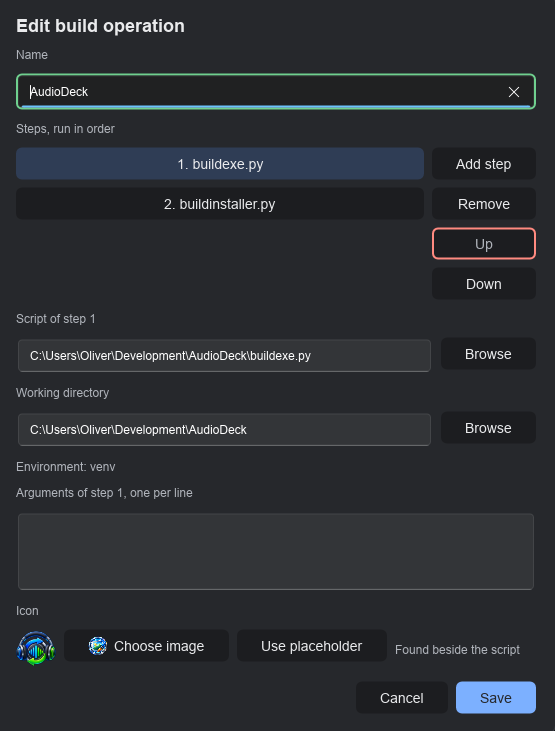
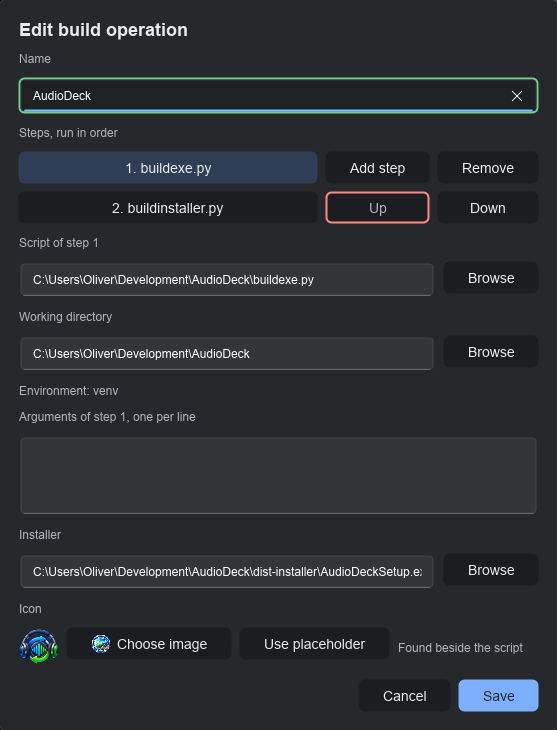
Minor version bump and docs pass
Documents Launch installer and the tray fix across the README, architecture, testing and development guides and the project site, with new window and Edit screenshots. Corrects stale test references in the SRS and re-measured figures in TESTING.md.

diff --git a/docs/index.html b/docs/index.html
@@ -47,7 +47,7 @@
     <div class="wrap hero">
         <div>
             <p class="eyebrow">
-                <span class="pill">v<!--VERSION-->1.0.1<!--/VERSION--></span>
+                <span class="pill">v<!--VERSION-->1.1.0<!--/VERSION--></span>
                 <span class="pill">Windows</span>
                 <span class="pill">Free and open source</span>
             </p>
@@ -62,7 +62,7 @@
             </div>
         </div>
         <figure class="shot">
-            <img src="screenshots/screenshot.png" alt="The BuildPilot window: a list of build operations, each with its status and controls, above the output of the selected run.">
+            <img src="screenshots/screenshot.png" alt="The BuildPilot window: a list of build operations, each with its status and controls. Launch installer is ready on every row with a setup program and greyed out with a red ring on the two without one.">
         </figure>
     </div>
 
@@ -93,6 +93,11 @@
                         outcome closes it in green, red or grey.</li>
                     <li><strong>Stops the whole tree.</strong> Stop ends the script and every
                         process it started, through a Windows job object.</li>
+                    <li><strong>Launches the installer it built.</strong> Beside Stop, Launch
+                        installer starts the project's setup program: the one set in Edit, else
+                        the folder's name plus <code>Setup.exe</code> in
+                        <code>dist-installer</code> or <code>dist</code>. It waits while the
+                        build runs and after one you stopped.</li>
                 </ul>
             </div>
             <div class="card">
@@ -118,14 +123,14 @@
 
     <section class="wrap" id="screens">
         <p class="kicker">A closer look</p>
-        <h2>Steps, environments and hosts, in two dialogs.</h2>
+        <h2>Steps, environments, installers and hosts, in two dialogs.</h2>
         <div class="gallery">
             <figure class="shot">
-                <img src="screenshots/edit.png" width="555" height="731" loading="lazy"
-                    alt="The Edit build operation dialog for AudioDeck: two steps, buildexe.py then buildinstaller.py, the working directory, the environment venv and the project's icon.">
+                <img src="screenshots/edit.png" width="557" height="730" loading="lazy"
+                    alt="The Edit build operation dialog for AudioDeck: two steps, buildexe.py then buildinstaller.py, the working directory, the environment venv, the installer found in dist-installer and the project's icon.">
                 <figcaption><strong>Edit.</strong> A Python project's two steps, run in order
                     inside its own <code>venv</code>. Steps are added, removed and reordered
-                    here; the icon was found beside the script.</figcaption>
+                    here; the installer and the icon were found in the project.</figcaption>
             </figure>
             <figure class="shot">
                 <img src="screenshots/settings.png" width="555" height="560" loading="lazy"
@@ -181,7 +186,7 @@
     <section class="wrap" id="download">
         <p class="kicker">Download</p>
         <h2>Install it once; add a project; press Run.</h2>
-        <span class="dl-version" id="dl-version">Version <!--VERSION-->1.0.1<!--/VERSION--></span>
+        <span class="dl-version" id="dl-version">Version <!--VERSION-->1.1.0<!--/VERSION--></span>
         <!--
             The button points at GitHub's releases/latest/download redirect, which always
             serves the newest release's file. The name carries no version, so the link

diff --git a/TESTING.md b/TESTING.md
@@ -3,7 +3,7 @@
 What is tested, what is not and why the line falls where it does.
 
 This document exists because a coverage figure on its own is a number without a claim behind it.
-Every figure here was measured on 2026-09-27, when it was written.
+Every figure here was measured on 2026-09-28, when it was last revised.
 
 ## The standard
 
@@ -40,7 +40,7 @@ Read the exit code rather than the last line of output: `0` means every step pas
 | `src/domain`, `src/application` and `src/setup` | 100% of lines and of regions | The correctness core and the setup program's policy: no files, no processes, no clock, no window, so every line and every branch is reachable from a test. |
 | `src/infrastructure`, `src/ui`, `src/main.rs`, `src/bin` | measured, not floored | They need real processes, files, Explorer, the registry or a window; a number over them would mean little. Their behaviour is covered by the suites below and the checks by hand. |
 
-Every line and every region in the floor is covered: 3,060 regions over 2,124 lines. A region is a branch as
+Every line and every region in the floor is covered: 3,255 regions over 2,232 lines. A region is a branch as
 well as a line, so an untaken `?` fails the gate even when its line ran. Where a branch could
 not be taken in production it was deleted rather than tested (an operation looked up twice, a
 refusal repeated after it had already been made). The region floor was proved by planting a
@@ -48,15 +48,15 @@ one-line `if` whose branch never runs: lines stayed at 100% and the gate failed.
 
 ## What the suites prove
 
-339 tests, counted from the source.
+356 tests, counted with `cargo test -- --list`.
 
 | Suite | Tests | What it proves |
 |---|---|---|
-| `tests/domain` | 135 | The rules: validation, steps, folders compared as Windows compares them, deck order and slotting in by name, the run state machine, launch plans per kind of script, the host table, environment discovery with the deactivate and activate variables, the scan patterns and proposals, line assembly and decoding, the output buffer's caps, follow state, selection, preferences, elapsed-time wording, reading the credits and naming their licences, the self-reading cycle tick by tick. |
-| `tests/application` | 91 | Every use case through `App` against hand-written fake ports: adding, editing, removing, reordering (including during a run), running steps in order, one build per folder, running the ticked rows, stopping, environments, hosts, folder scans, stale events, notices, refusals and what is logged; the update check's decisions and wording, the saved skip. |
+| `tests/domain` | 142 | The rules: validation, steps, folders compared as Windows compares them, deck order and slotting in by name, the run state machine, launch plans per kind of script, where a project's installer is found and when it may be launched, the host table, environment discovery with the deactivate and activate variables, the scan patterns and proposals, line assembly and decoding, the output buffer's caps, follow state, selection, preferences, elapsed-time wording, reading the credits and naming their licences, the self-reading cycle tick by tick. |
+| `tests/application` | 100 | Every use case through `App` against hand-written fake ports: adding, editing, removing, reordering (including during a run), running steps in order, one build per folder, running the ticked rows, stopping, launching an installer (found, set, missing, held back by a run or a stop), environments, hosts, folder scans, stale events, notices, refusals and what is logged; the update check's decisions and wording, the saved skip. |
 | `tests/infrastructure` | 58 | The real machine: the settings file in a temporary folder (including unreadable and newer files), icons, PowerShell detection, real processes started and stopped, the single-instance event, the log's rotation, a reader thread that panics, the known folders, finding and ending a process by name and clearing setup's stale copy; the donation address; the generated credits against the shipped graph, with a readable name for every licence; reading GitHub's release answer as foreign input. |
 | `tests/keyboard` | 14 | The keyboard ring, driven headless by real key events through Slint's own focus handling: neutral start, Tab and Shift+Tab with wrap, Left and Right, the rows stop, dialogs opening on their first control, owning the ring, closing on Escape and handing focus back, the output stop only while it overflows, the Help menu walked with Up and Down, a folder already on the deck off the ring. |
-| `tests/ui.rs` | 11 | What rows and the tray say, without a window. |
+| `tests/ui.rs` | 12 | What rows and the tray say, without a window. |
 | `tests/structural.rs` | 8 | The invariants in [ARCHITECTURE.md](ARCHITECTURE.md), by reading the source. |
 | `tests/guide.rs` | 1 | Every toolbar and row control has a Guide entry, one per state where its label changes. |
 | `tests/geometry` | 9 | Where Slint laid things out, headless: every toolbar tooltip inside the window, row tooltips not clipped by the list, a button's icon level with its words and centred with them, every credit's licence inside About's pane with the real list loaded, About's header above the scrolling credits, Licence opening at the top of its text, the scroll bars and the counts of rows out of sight, the selected row kept in sight when the tray opens. |
@@ -100,12 +100,13 @@ These need a real desktop and a real person; the SRS marks them Manual.
 | Check | How |
 |---|---|
 | CFG-007 first run | Start with an empty data folder: the empty state shows with its Add button. |
-| ADD-001 add by browsing | Add opens the file picker, filtered to `.ps1`, `.bat`, `.cmd` and `.exe`. |
+| ADD-001 add by browsing | Add opens the file picker, filtered to the types BuildPilot runs: `.ps1`, `.bat`, `.cmd`, `.exe`, `.com`, `.py` and any in Settings' host table. |
 | ICON-006 no distortion | Every icon and asset keeps its proportions at every size. |
 | REM-001 confirm before remove | Remove asks first, naming the operation and saying the script is not touched; Cancel is focused. |
 | ROW-002 stable layout | Every control keeps its place in every state. |
 | LCH-004 no console window | Running a `.ps1`, `.bat` and `.exe` opens no console. |
-| OUT-006 auto-follow | The tray follows new output until scrolled up; Jump to latest resumes it. |
+| OUT-006 auto-follow | The tray follows new output until scrolled up; Jump to latest resumes it. When the run ends, its closing line is in view. Checked on 2026-09-28 with a burst of 120 lines and with 80 lines 50 ms apart: the headless backend never lays out the list, so only the real window can show this. |
+| PKG-003, PKG-004 Launch installer | Right of Stop: a red ring on a row with no installer, while it runs and after a stopped run; its tooltip says which. Launching it starts the setup program, with the Windows prompt where the installer asks for administrator rights. |
 | A11Y-001 names | Narrator reads every control's name. |
 | A11Y-002 focus visible | Green ring on hover or focus, red ring on a disabled control, none at rest, never round a pane. |
 | A11Y-003 keyboard reach | Tab, Shift+Tab, Left and Right reach every control; Space and Enter activate. |

diff --git a/ARCHITECTURE.md b/ARCHITECTURE.md
@@ -37,7 +37,8 @@ violation and watching the test fail.
 - **Domain** (`src/domain`). BuildPilot's nouns and rules: an operation, its ordered steps and
   their validation, folders compared as Windows compares them, the flight deck with its order
   and where a new row slots in by name, the run state machine, the launch plan for each kind of
-  script, the operator's host table, finding a Python environment and the variables that
+  script, where a project's installer is found and when it may be launched, the operator's host
+  table, finding a Python environment and the variables that
   deactivate and activate one, the folder-scan patterns and what a scan proposes, cutting output
   bytes into lines and decoding them, the output buffer and its caps, the tray's follow state,
   selection and preferences, release versions, the open source credits and the self-reading cycle
@@ -94,6 +95,22 @@ Terminal escape sequences are removed rather than interpreted (OUT-008). A run k
 100,000 lines and splits a longer line into pieces of 16,384 characters (OUT-004). The tray
 reads the buffer directly rather than a copy. Every line is drawn in the plain text colour
 whichever stream it came on; the run's outcome is one closing line in its own colour (OUT-007).
+
+## Launching an installer
+
+Launch installer (PKG-001 to PKG-005) starts a project's setup program; BuildPilot never waits
+on it, reads its output or stops it.
+
+- **The rule is pure.** `domain/installer.rs` decides the default (the working directory's name
+  plus `Setup.exe` in `dist-installer`, then `dist`, compared by letters and digits) from a
+  listing it is handed. It also decides whether a run state allows a launch: not while running
+  or stopping, not after a stopped run.
+- **The looking is cached.** `App` records each operation's installer through `PathProbe` at
+  start, on add, edit and select and when a run ends; `application/installer_actions.rs` holds
+  the use case. The rows redraw four times a second and a look reads two folders, so the rows read
+  the record, never the disk. Launch looks again before it starts anything.
+- **Starting it is the shell's job.** `Shell::open` hands the file to Windows as Explorer would,
+  so an installer that needs administrator rights gets the usual prompt.
 
 ## Help, the credits and the update check
 
@@ -206,6 +223,8 @@ folder; only setup writes the program folder, the shortcuts and the Apps list en
 | One named event for the single instance | The same object answers "is one running?" and "come forward". | A mutex plus a second signal. |
 | The instance keyed on the data folder | The default folder is per user, which is DATA-001; a test copy on its own folder runs alongside. | One instance per user whatever the folder. |
 | Notice wording in the application layer | The window and the log say the same words. | Wording in the UI, which the log cannot reach. |
+| An installer is stored only once saved from Edit | The dialog shows the default found and Save keeps what its field holds; until then an operation follows the project's own convention. The config file stays schema 2, so an earlier release still reads it (DATA-002). | Writing the default into every operation at load, which rewrites every entry unasked. |
+| The tray pins itself to the end while following | The list measures new rows only when it next lays out, so a scroll asked for as they arrive stopped short and hid the run's closing line (OUT-003). | Scrolling once from Rust after each drain. |
 
 See also [TESTING.md](TESTING.md) for how each layer is tested and [DEVELOPMENT.md](DEVELOPMENT.md)
 for building it.

diff --git a/README.md b/README.md
@@ -55,6 +55,11 @@ Every script stays runnable without it.
   in green, red or muted grey.
 - **Stops the whole tree.** Stop ends the script and everything it started, through a Windows job
   object. A tree still alive five seconds after Stop is reported by process id.
+- **Launches the installer a build made.** Launch installer, beside Stop, starts the project's
+  setup program as Explorer would. It is the one set in Edit; with none set, the working
+  directory's name followed by `Setup.exe` in `dist-installer`, then in `dist`, matched on
+  letters and digits whatever the case. It is greyed out when there is none, while the row runs
+  and after a run you stopped, until a later run ends by itself.
 - **Opens and reveals scripts.** Open a script with its associated application or show it in
   Explorer, from its row.
 - **Uses PowerShell sensibly.** A `.ps1` runs under `pwsh` when it is on PATH and Windows

diff --git a/DEVELOPMENT.md b/DEVELOPMENT.md
@@ -161,7 +161,8 @@ It is idempotent: a second run writes nothing.
 ## The website
 
 `docs/` is the GitHub Pages site: `index.html`, `styles.css`, the icon, the donate artwork and
-`screenshots/screenshot.png`. It carries no dates. Its colours are the application's tokens from
+three captures in `screenshots/` (the window, the Edit dialog and Settings). It carries no
+dates. Its colours are the application's tokens from
 `ui/theme.slint`, light or dark as the reader's system is set.
 
 ## Where things live
